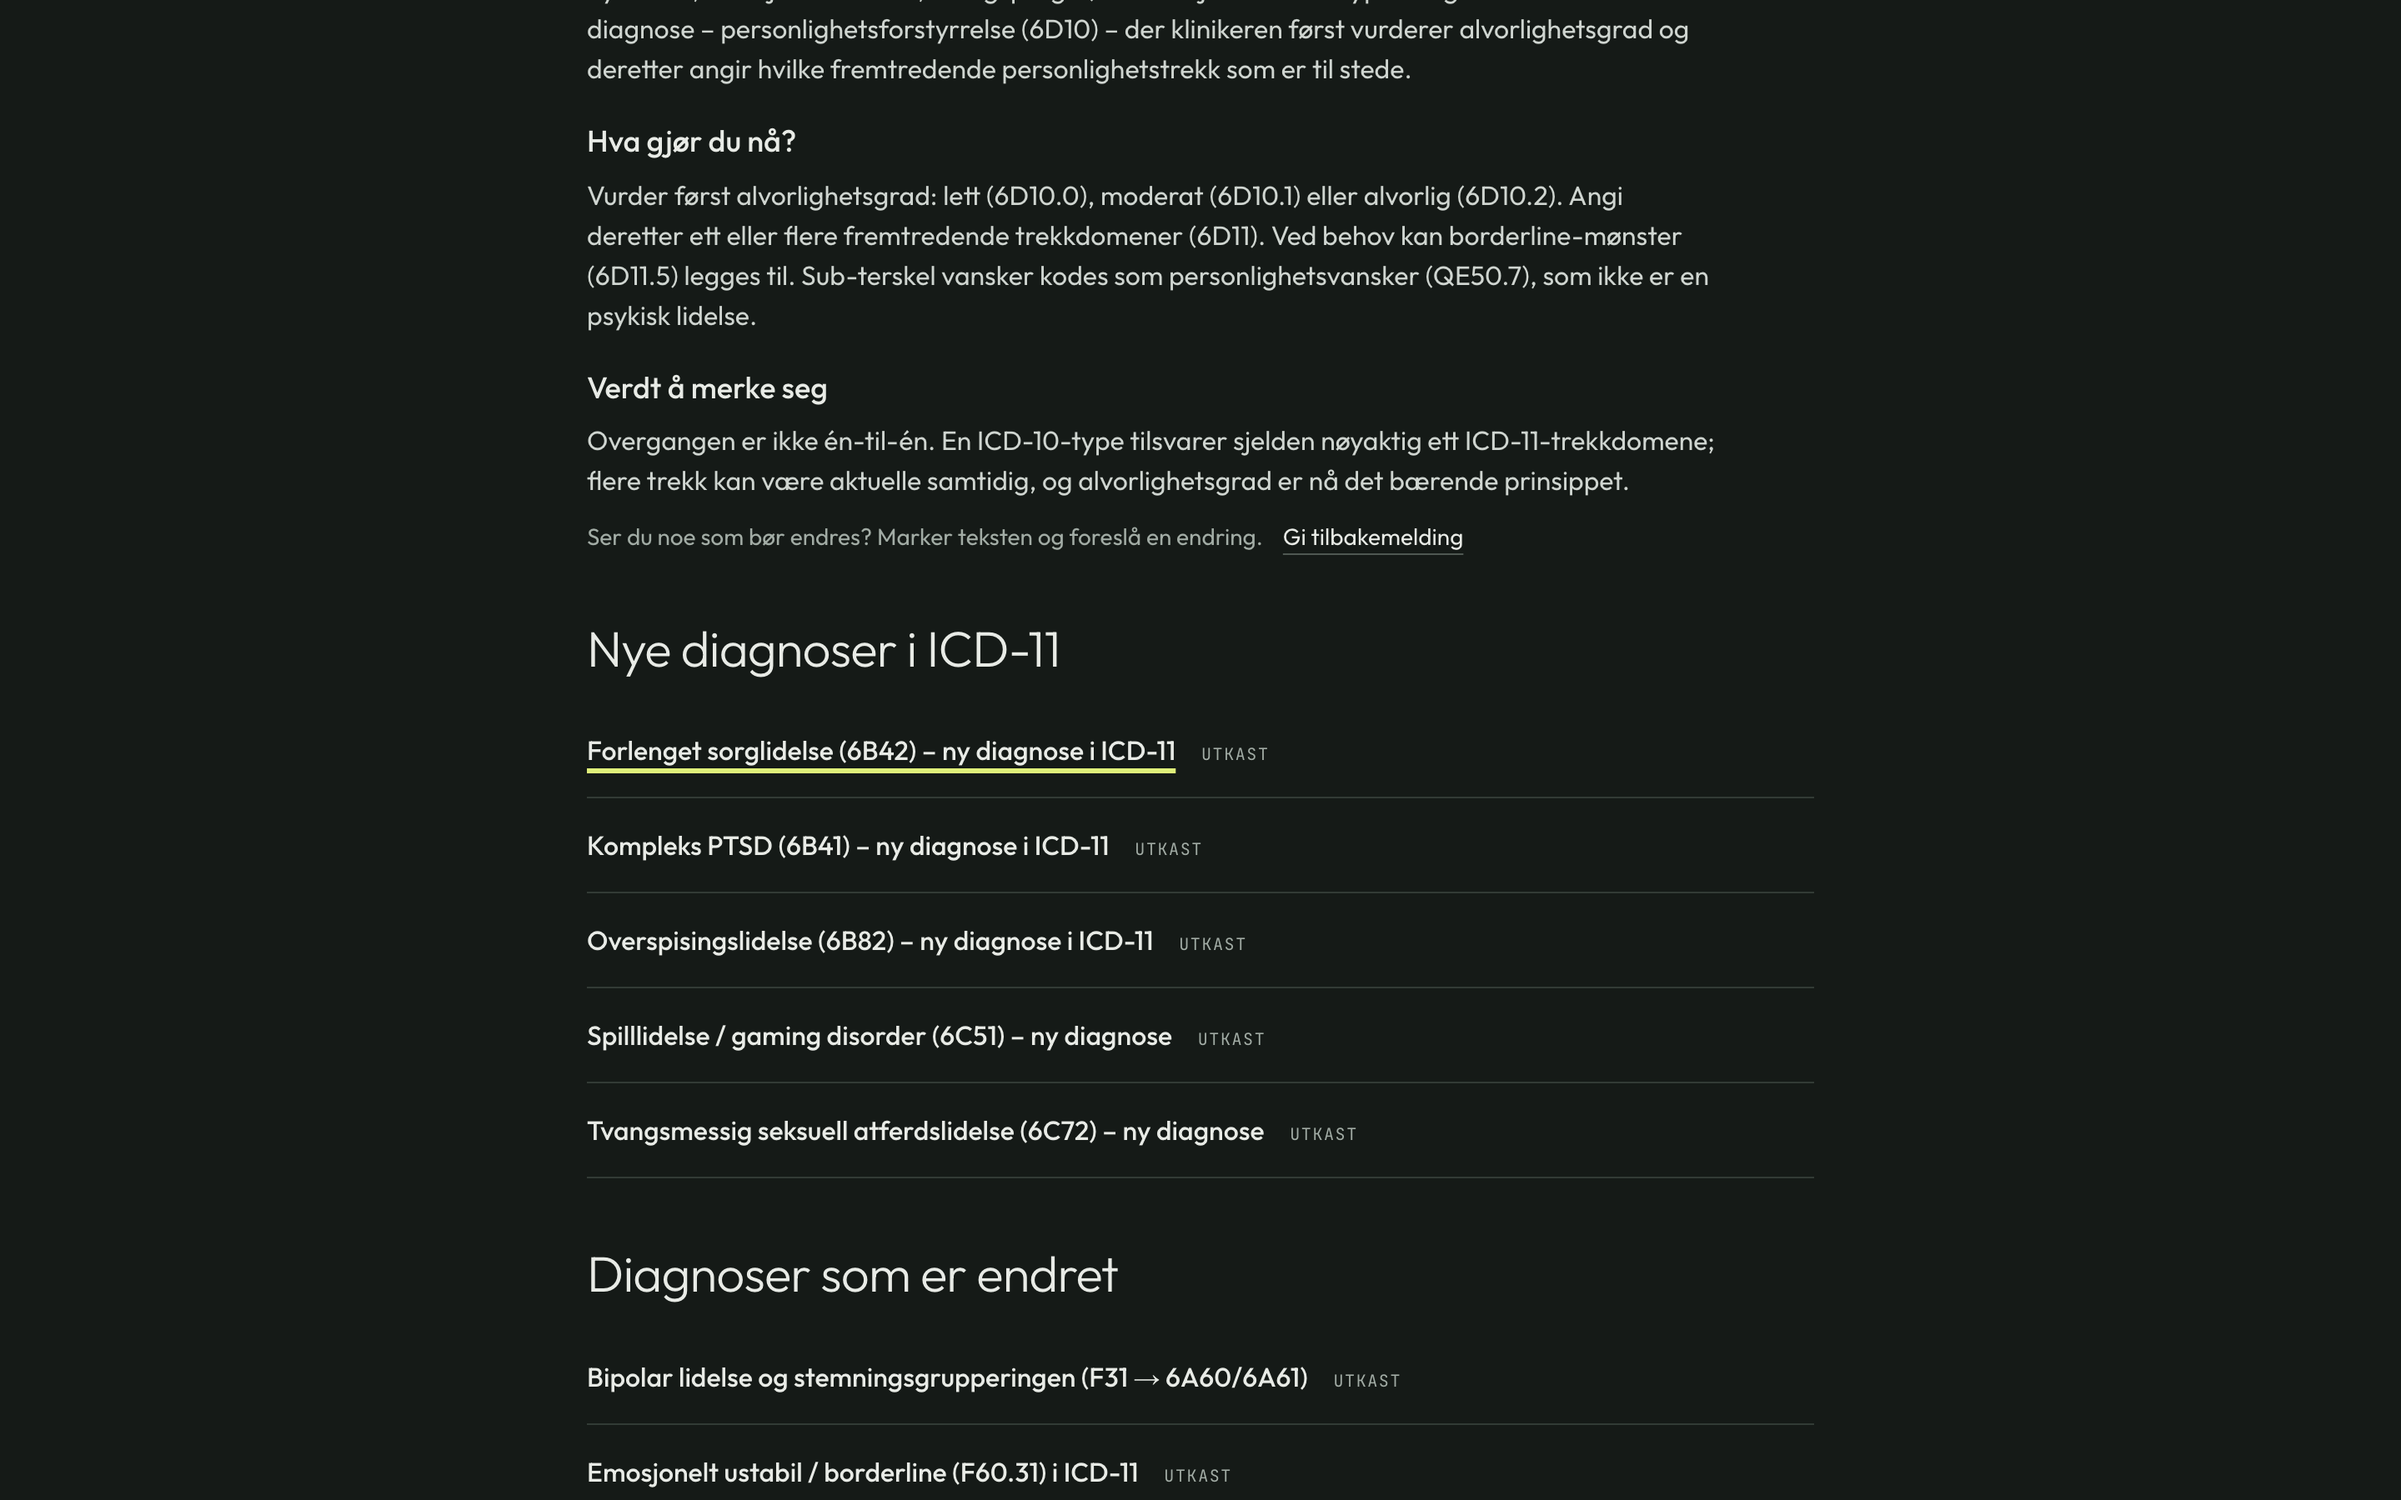
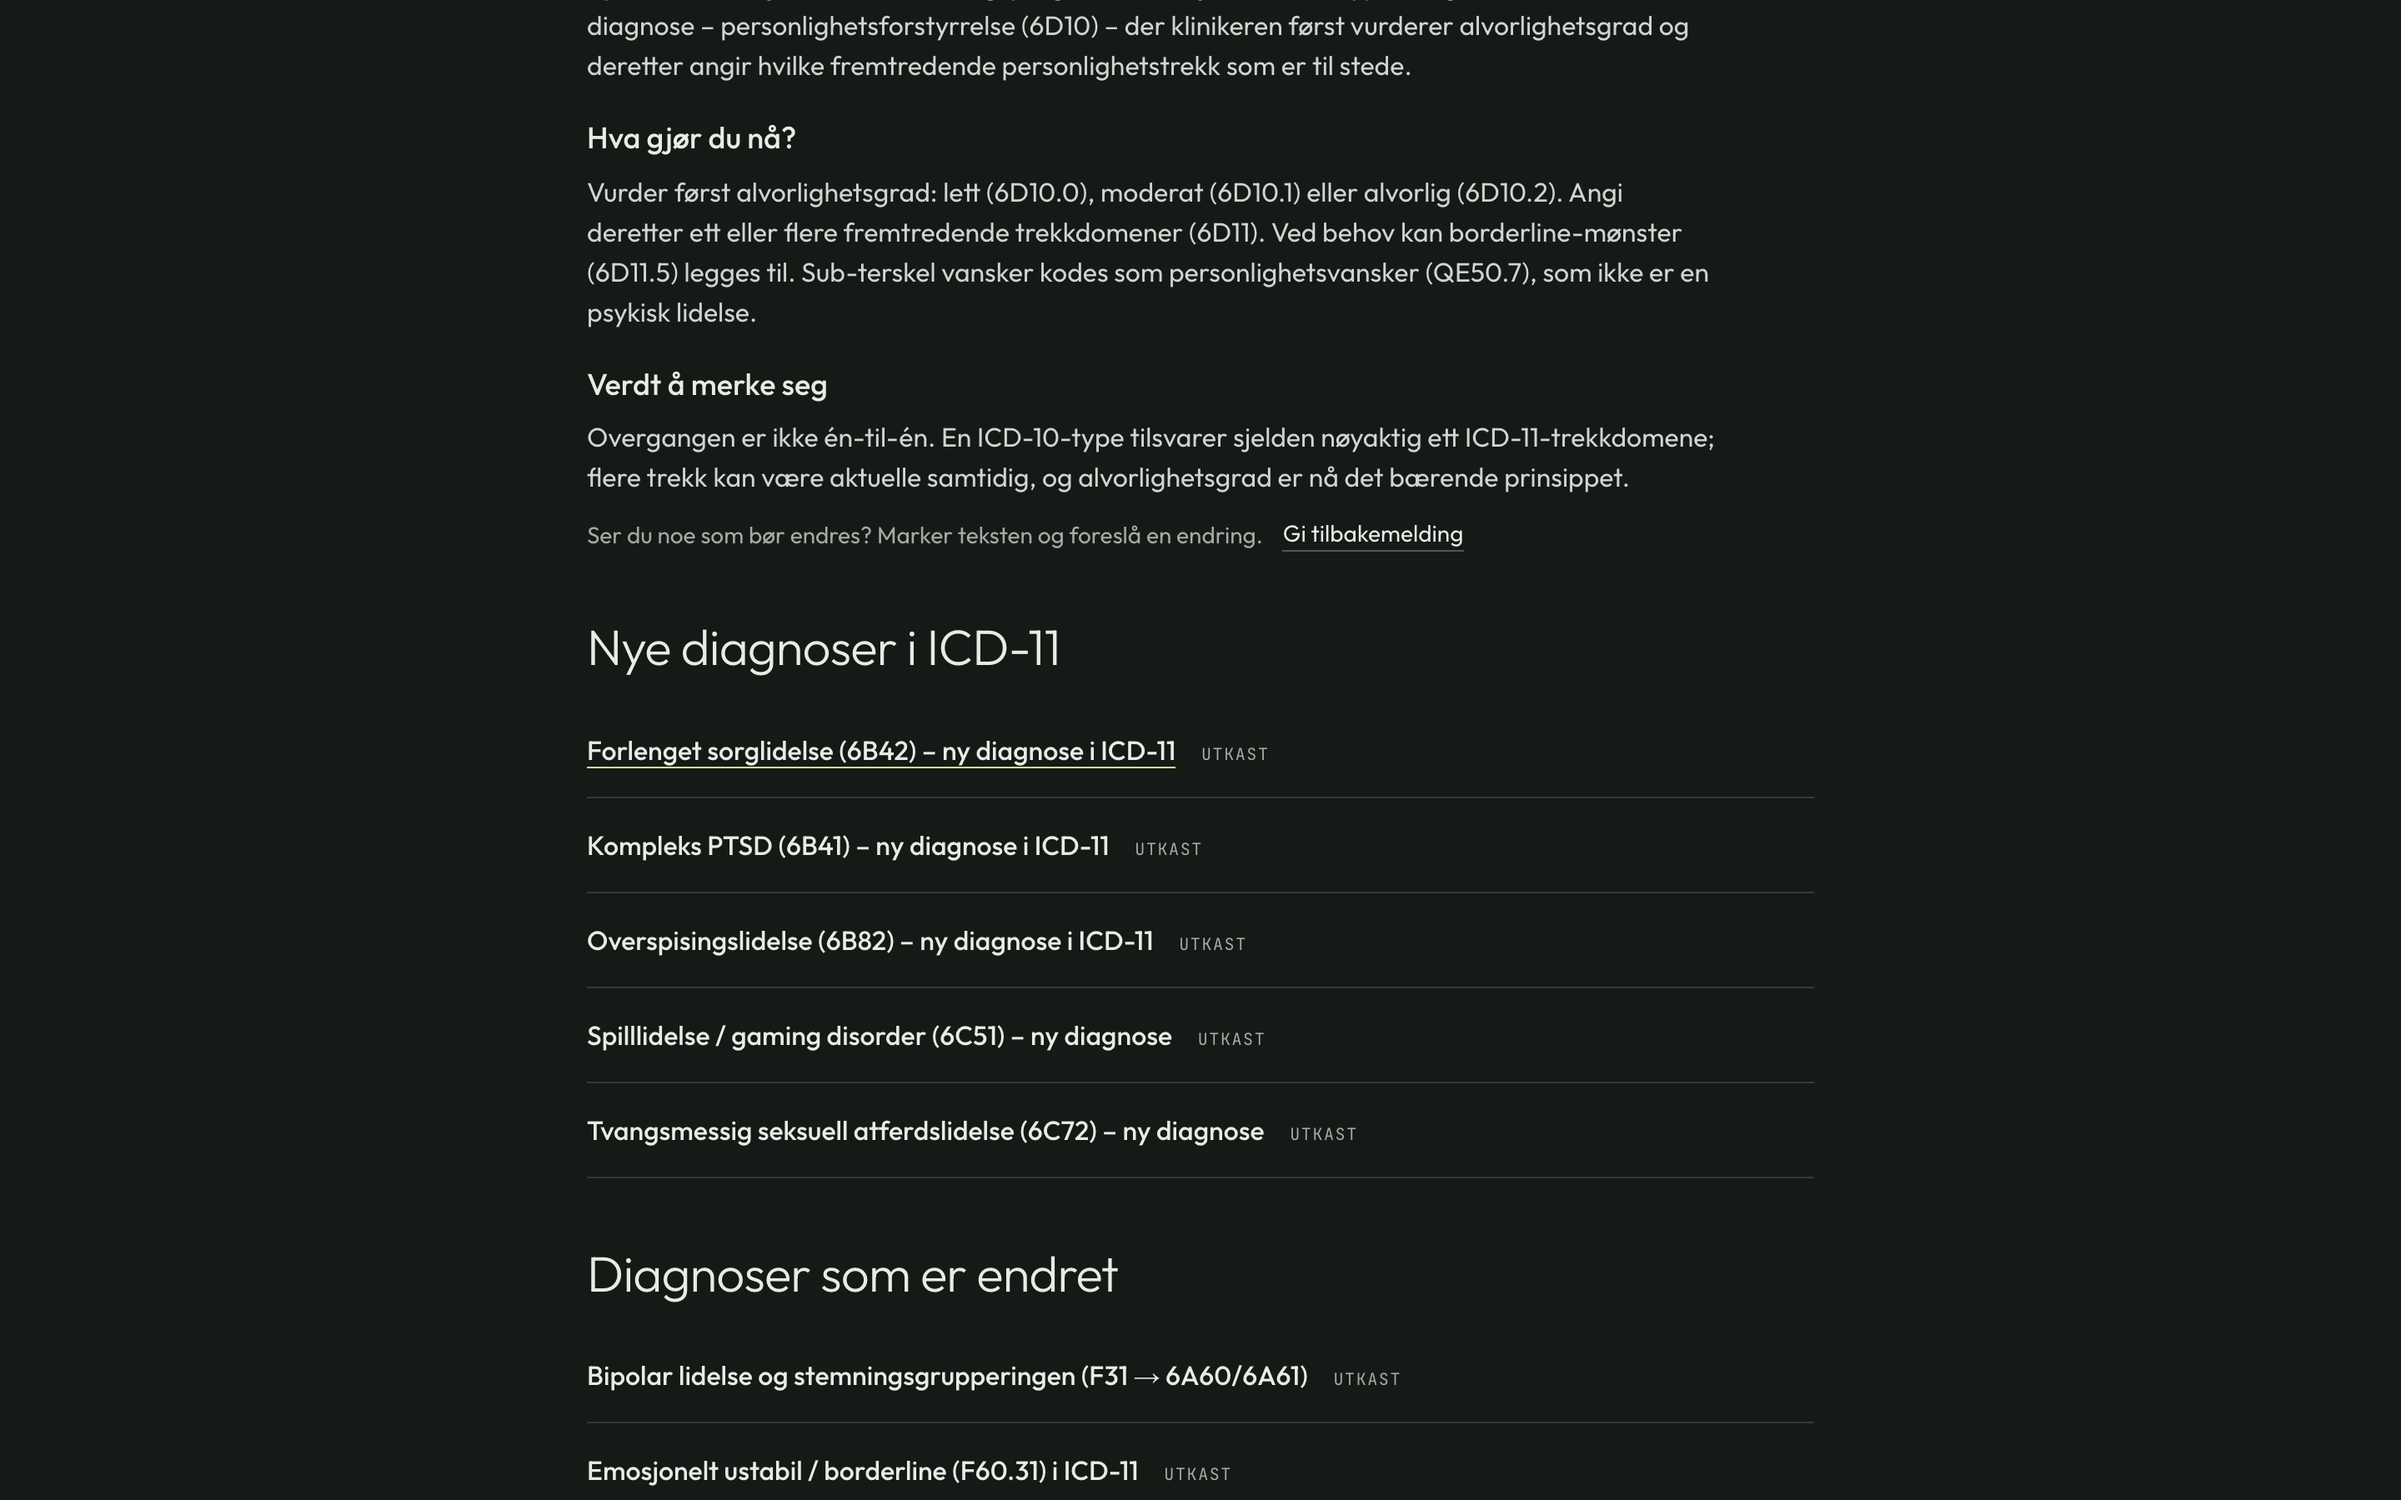
Re-vendor kit 29afb74: 0.1em centre-out hover stroke; refresh hover frames

diff --git a/src/styles/foundations/bundle.css b/src/styles/foundations/bundle.css
@@ -9,8 +9,15 @@
 /* Nav bar: wordmark left, links right, hairline under. */
 .fdn-bar { display: flex; justify-content: space-between; align-items: center; height: 72px; padding: 0 24px; border-bottom: 1px solid var(--hairline); }
 .fdn-bar nav { display: flex; gap: 32px; align-items: center; font-size: 14px; }
-.fdn-bar nav a:not(.fdn-btn) { color: var(--ink-muted); text-decoration: underline; text-decoration-color: transparent; text-decoration-thickness: 1px; text-underline-offset: var(--link-underline-offset, 5px); transition: color var(--motion-hover, 200ms) ease, text-decoration-color var(--motion-hover, 200ms) ease, text-decoration-thickness var(--motion-hover, 200ms) ease; }
-.fdn-bar nav a:not(.fdn-btn):hover, .fdn-bar nav a:not(.fdn-btn):focus-visible { color: var(--ink); text-decoration-color: var(--lime); text-decoration-thickness: 3px; }
+.fdn-bar nav a:not(.fdn-btn) {
+  color: var(--ink-muted); text-decoration: none;
+  background-image: linear-gradient(var(--lime), var(--lime));
+  background-repeat: no-repeat; background-position: 50% 100%; background-size: 0% 0.1em;
+  padding-bottom: 0.1em;
+  -webkit-box-decoration-break: clone; box-decoration-break: clone;
+  transition: color var(--motion-hover, 200ms) ease, background-size var(--motion-hover, 200ms) ease;
+}
+.fdn-bar nav a:not(.fdn-btn):hover, .fdn-bar nav a:not(.fdn-btn):focus-visible { color: var(--ink); background-size: 100% 0.1em; }
 /* Active link: the current page in ink. */
 .fdn-bar nav a[aria-current="page"]:not(.fdn-btn) { color: var(--ink); }
 /* Column bar: no side padding, for a bar that lines up with a content column instead of the window edge. */
@@ -28,9 +35,18 @@
 /* Small button for the nav bar. */
 .fdn-btn.is-sm { padding: 9px 14px; font-size: 14px; }
 
-/* Text link: the second action, ink on its thin underline. On hover and focus a lime stroke grows over the line. See Hover and focus in the README. */
-.fdn-link { color: var(--ink); text-decoration: underline; text-decoration-color: var(--underline); text-decoration-thickness: 1px; text-underline-offset: var(--link-underline-offset); transition: text-decoration-color var(--motion-hover, 200ms) ease, text-decoration-thickness var(--motion-hover, 200ms) ease; }
-.fdn-link:hover, .fdn-link:focus-visible { text-decoration-color: var(--lime); text-decoration-thickness: 3px; }
+/* Text link: the second action, ink on its thin underline, drawn as two background layers so a 0.1em lime stroke can grow from the centre on hover and focus. See Hover and focus in the README. */
+.fdn-link {
+  color: var(--ink); text-decoration: none;
+  background-image: linear-gradient(var(--lime), var(--lime)), linear-gradient(var(--underline), var(--underline));
+  background-repeat: no-repeat;
+  background-position: 50% 100%, 0 100%;
+  background-size: 0% 0.1em, 100% 1px;
+  padding-bottom: 0.1em;
+  -webkit-box-decoration-break: clone; box-decoration-break: clone;
+  transition: background-size var(--motion-hover, 200ms) ease;
+}
+.fdn-link:hover, .fdn-link:focus-visible { background-size: 100% 0.1em, 100% 1px; }
 
 /* Eyebrow: mono label above a headline or heading. */
 .fdn-eyebrow { font-family: var(--font-mono); font-size: 11px; letter-spacing: 0.08em; text-transform: uppercase; color: var(--ink-muted); }
@@ -58,9 +74,16 @@
 
 /* Row link: a whole row as one link, such as a post in an index. Put it inside an fdn-row. */
 .fdn-row-link { display: grid; gap: var(--space-2); color: inherit; text-decoration: none; }
-/* Row title: the line that names the row. On hover and focus a lime stroke grows under it; nothing else changes. */
-.fdn-row-title { margin: 0; color: var(--ink); text-wrap: balance; text-decoration: underline; text-decoration-color: transparent; text-decoration-thickness: 1px; text-underline-offset: var(--link-underline-offset, 5px); transition: text-decoration-color var(--motion-hover, 200ms) ease, text-decoration-thickness var(--motion-hover, 200ms) ease; }
-.fdn-row-link:hover .fdn-row-title, .fdn-row-link:focus-visible .fdn-row-title { text-decoration-color: var(--lime); text-decoration-thickness: 3px; }
+/* Row title: the line that names the row. On hover and focus a 0.1em lime stroke grows from the centre under it; nothing else changes. fit-content keeps the stroke on the text when the title is a block. */
+.fdn-row-title {
+  margin: 0; color: var(--ink); text-wrap: balance; width: fit-content; max-width: 100%;
+  background-image: linear-gradient(var(--lime), var(--lime));
+  background-repeat: no-repeat; background-position: 50% 100%; background-size: 0% 0.1em;
+  padding-bottom: 0.1em;
+  -webkit-box-decoration-break: clone; box-decoration-break: clone;
+  transition: background-size var(--motion-hover, 200ms) ease;
+}
+.fdn-row-link:hover .fdn-row-title, .fdn-row-link:focus-visible .fdn-row-title { background-size: 100% 0.1em; }
 
 /* Callout: a hairline on top, a title and one short paragraph. */
 .fdn-callout { border-top: 1px solid var(--hairline); padding-top: 12px; display: grid; gap: 6px; }
@@ -82,9 +105,18 @@
 .fdn-prose ul, .fdn-prose ol { padding-left: var(--space-5); }
 .fdn-prose li + li { margin-top: var(--space-2); }
 .fdn-prose li::marker { color: var(--ink-muted); }
-/* Links: the fdn-link look. */
-.fdn-prose a { color: var(--ink); text-decoration: underline; text-decoration-color: var(--underline); text-underline-offset: var(--link-underline-offset); }
-.fdn-prose a:hover { text-decoration-color: var(--ink); }
+/* Links: the fdn-link look, the same two-layer stroke. */
+.fdn-prose a {
+  color: var(--ink); text-decoration: none;
+  background-image: linear-gradient(var(--lime), var(--lime)), linear-gradient(var(--underline), var(--underline));
+  background-repeat: no-repeat;
+  background-position: 50% 100%, 0 100%;
+  background-size: 0% 0.1em, 100% 1px;
+  padding-bottom: 0.1em;
+  -webkit-box-decoration-break: clone; box-decoration-break: clone;
+  transition: background-size var(--motion-hover, 200ms) ease;
+}
+.fdn-prose a:hover, .fdn-prose a:focus-visible { background-size: 100% 0.1em, 100% 1px; }
 /* Inline code: the code style in ink, with nothing behind it. */
 .fdn-prose code { font-family: var(--font-mono); font-size: 0.9em; color: var(--ink); background: none; padding: 0; }
 /* Code block: a framed sheet on surface inside a hairline, square. */
@@ -105,5 +137,5 @@
 
 /* Hover is the one transition. Under reduced motion it is instant. */
 @media (prefers-reduced-motion: reduce) {
-  .fdn-link, .fdn-bar nav a, .fdn-row-title { transition: none; }
+  .fdn-link, .fdn-bar nav a, .fdn-row-title, .fdn-prose a { transition: none; }
 }

diff --git a/src/styles/foundations/VERSION.md b/src/styles/foundations/VERSION.md
@@ -1,8 +1,8 @@
 # Foundations kit, vendored
 
 - Kit repo: jonmccull/foundations-kit
-- Commit: a35a9c6d9dabeeeeebacc5b07add2927fd20df73
-- Artifact version: 1792139021-976e
+- Commit: 29afb74048ed211a53774fbc0702a0f1e886dff3
+- Artifact version: 1792139330-31e9
 - Tokens: v4
 - Pulled: 2026-10-16
 - Files: `tokens.css` (the kit's `tokens.css`) and `bundle.css` (the kit's `components/bundle.css`), byte for byte. Never edit them here; no formatter runs on this directory (the repo has none configured).
